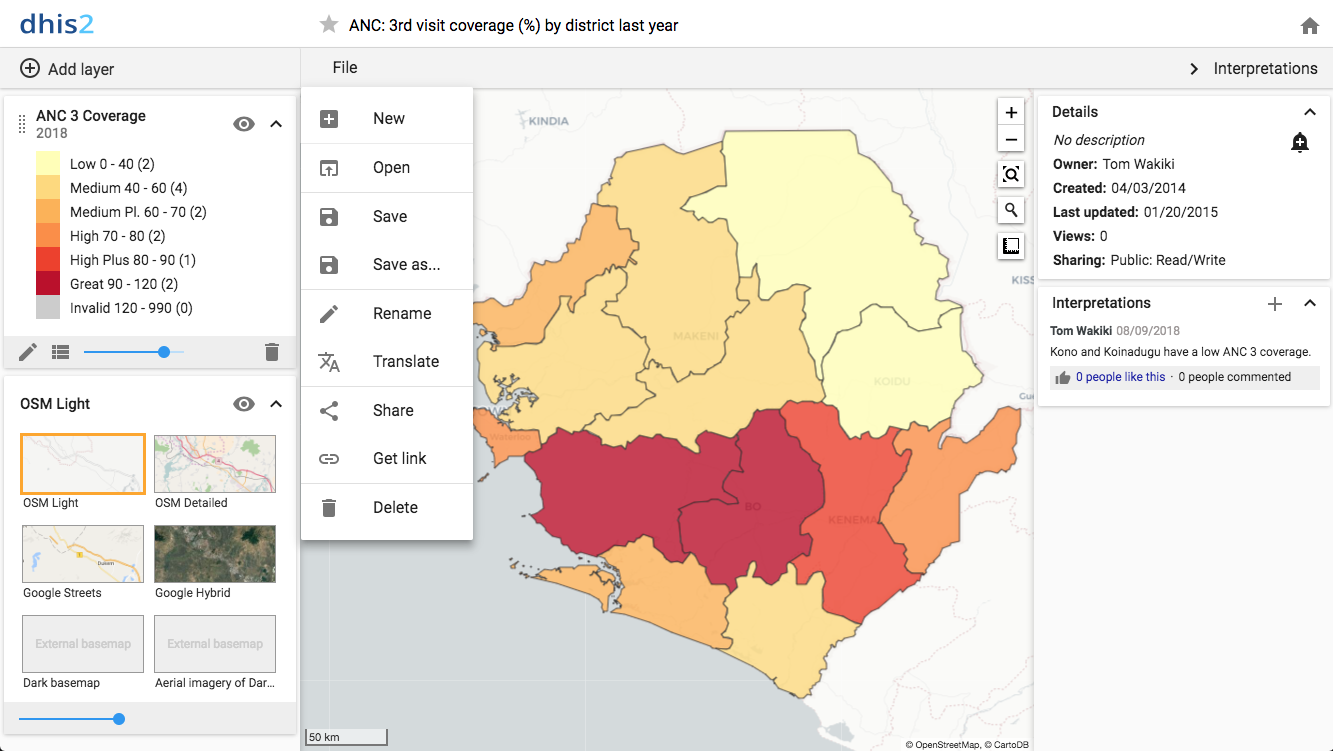
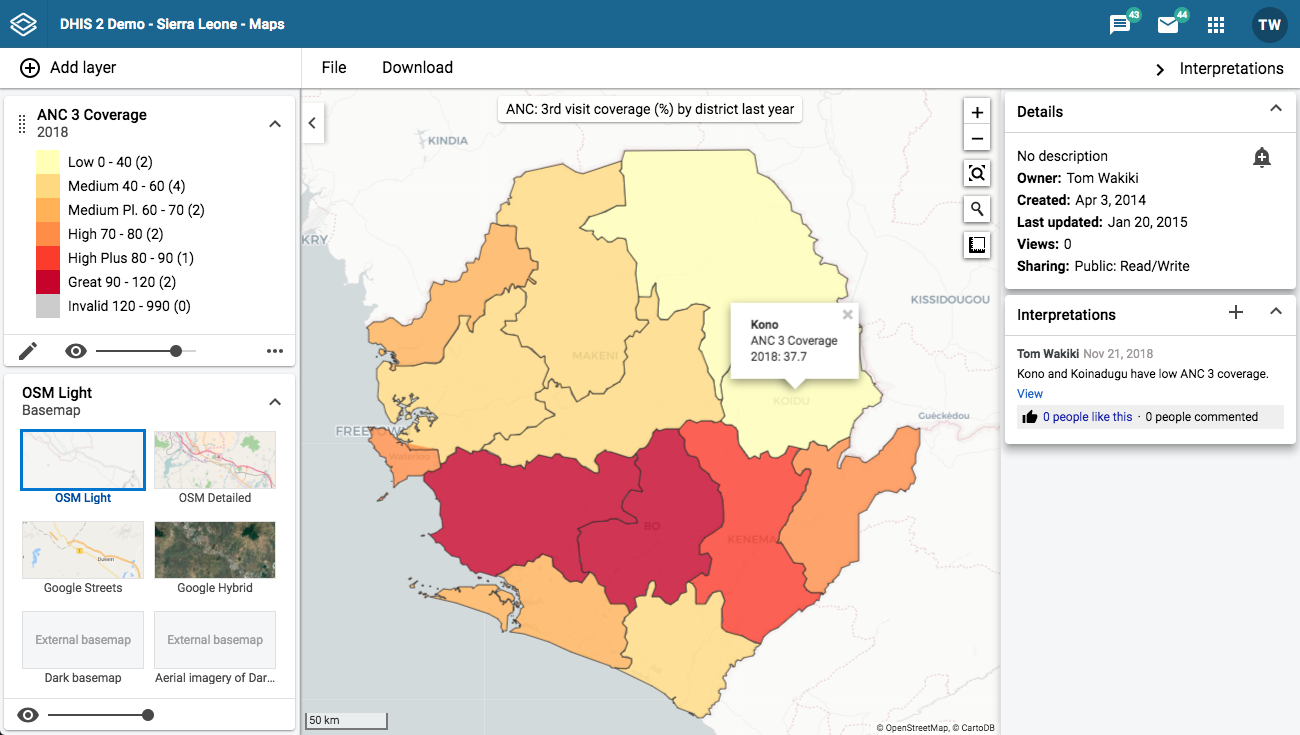
Map download menu item

diff --git a/src/commonmark/en/content/user/using-the-maps-app.md b/src/commonmark/en/content/user/using-the-maps-app.md
@@ -79,6 +79,10 @@ and groups.
 
 <!-- end list -->
 
+  - The **Download** button next to the File button allows you to download the current map as a PNG
+
+<!-- end list -->
+
   - The **Interpretations** button at top right opens an interpretations
     panel on the right side of the workspace. The button is only
     clickable if the map is saved.
